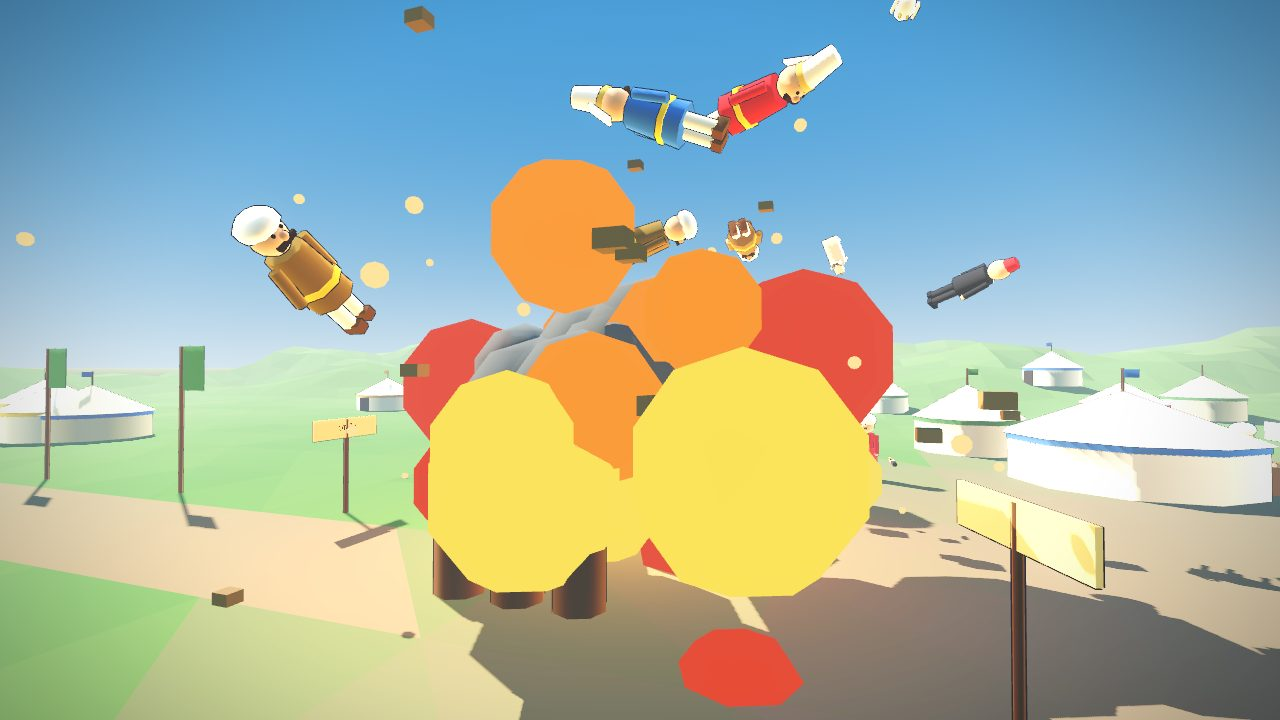
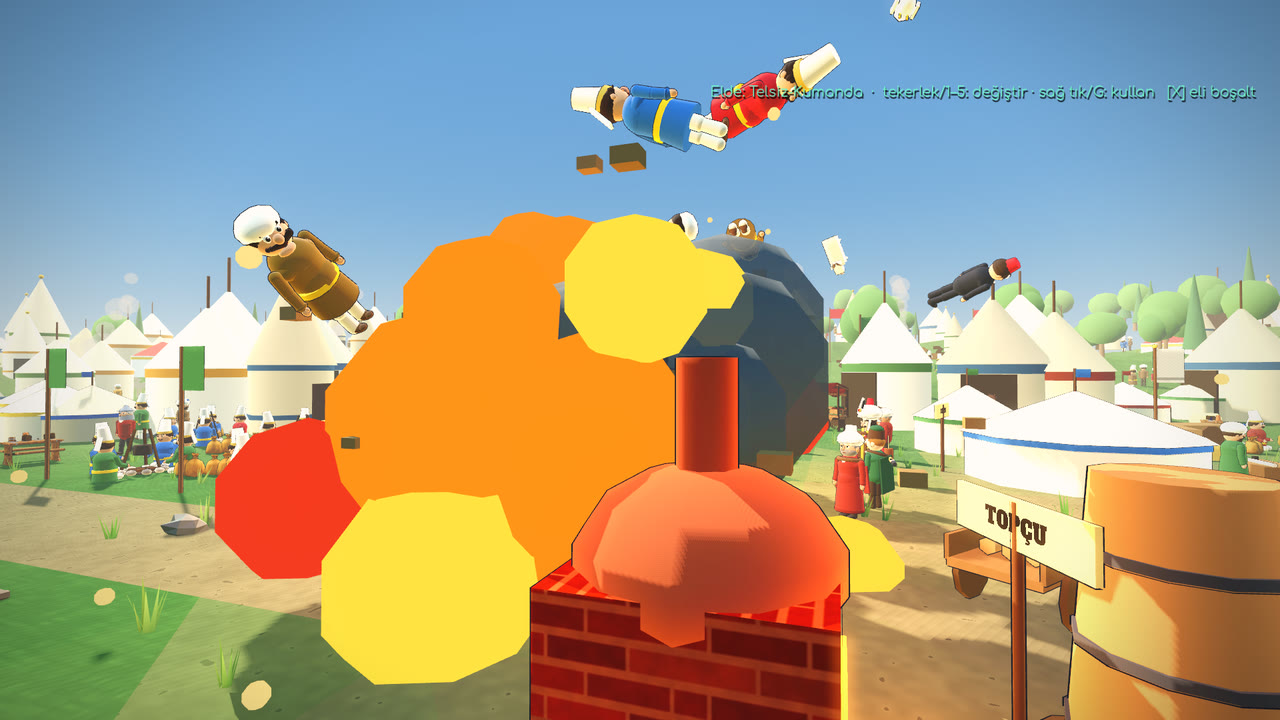
Site: kuşatma (Perde IV) bölümü, 27 bölüm, yeni kapak ve galeri görselleri (yeni saçlarla), bölüm şeridine 17–27
Claude-Session: https://claude.ai/code/session_01LHZpAsiBw1hjtaJxmhj2KM

diff --git a/index.html b/index.html
@@ -111,6 +111,9 @@ h2 small{display:block;font:600 16px Nunito,system-ui,sans-serif;color:var(--mut
 .boom img{width:100%;border-radius:16px;border:1px solid var(--line);box-shadow:0 18px 50px rgba(0,0,0,.45);display:block}
 .boom blockquote{margin:0 0 14px;padding-left:14px;border-left:3px solid var(--gold);font-size:18px}
 .boom blockquote b{color:var(--gold);font-family:Fredoka,Nunito,system-ui,sans-serif}
+.boom.siege{grid-template-columns:.8fr 1.2fr}
+.boom.siege img{order:2}
+.boom.siege p{margin:0 0 12px}
 .story{display:grid;grid-template-columns:1.05fr .95fr;gap:40px;align-items:center}
 .story img{width:100%;border-radius:16px;border:1px solid var(--line);box-shadow:0 18px 50px rgba(0,0,0,.4)}
 .story p{margin:0 0 14px}
@@ -133,7 +136,8 @@ footer em{color:var(--ink)}
 
 @media (max-width:760px){
   section{padding:54px 0}
-  .story,.boom{grid-template-columns:1fr}
+  .story,.boom,.boom.siege{grid-template-columns:1fr}
+  .boom.siege img{order:0}
   .hero{min-height:min(82vh,720px);background-position:30% 30%}
   .btn{font-size:19px;padding:14px 24px}
   .nav .go{display:none!important}
@@ -173,6 +177,7 @@ footer em{color:var(--ink)}
     </div>
     <div class="chips">
       <span data-tr>🎙 Türkçe ve İngilizce seslendirme</span><span data-en>🎙 Fully voiced in English &amp; Turkish</span>
+      <span data-tr>⚔ İki taraflı kuşatma</span><span data-en>⚔ The siege, from both sides</span>
       <span data-tr>🔀 23 final</span><span data-en>🔀 23 endings</span>
       <span data-tr>🎮 Gamepad desteği</span><span data-en>🎮 Gamepad support</span>
     </div>
@@ -182,11 +187,11 @@ footer em{color:var(--ink)}
 <main>
   <section>
     <div class="wrap">
-      <p class="lead" data-tr>Tolga <b>Fatih'e risk tablosu sunuyor</b>, Urban'ın topunu yanlışlıkla havaya uçuruyor, Bizans'ta yedi nüsha form dolduruyor ve pazartesi 09:00 toplantısına yetişmeye çalışıyor.</p>
-      <p class="lead" data-en>Tolga <b>pitches a risk matrix to Sultan Mehmed</b>, accidentally blows up Urban's giant cannon, fills out forms in seven copies in Byzantium, and still tries to make his Monday 9 a.m. meeting.</p>
+      <p class="lead" data-tr>Tolga <b>Fatih'e risk tablosu sunuyor</b>, Urban'ın topunu yanlışlıkla havaya uçuruyor, Bizans'ta yedi nüsha form dolduruyor ve pazartesi 09:00 toplantısına yetişmeye çalışıyor. Sonra Zaman Bürosu onu kuşatmaya <b>tanık</b> olarak geri yolluyor.</p>
+      <p class="lead" data-en>Tolga <b>pitches a risk matrix to Sultan Mehmed</b>, accidentally blows up Urban's giant cannon, fills out forms in seven copies in Byzantium, and still tries to make his Monday 9 a.m. meeting. Then the Time Bureau sends him back to the siege as an <b>official witness</b>.</p>
       <div class="feats">
         <div class="feat"><div class="big">23</div><h3 data-tr>farklı final</h3><h3 data-en>different endings</h3><p data-tr>Her seçim tarihi değiştirir. Aynı İstanbul'u iki kez fethedemezsin.</p><p data-en>Every choice bends history. You'll never conquer the same Constantinople twice.</p></div>
-        <div class="feat"><div class="big">16</div><h3 data-tr>bölüm</h3><h3 data-en>chapters</h3><p data-tr>Garajdan otağa, sur dibinden Zaman Bürosu'nun sonsuz koridorlarına.</p><p data-en>From a garage workshop to the Sultan's tent, the city walls and the endless corridors of the Time Bureau.</p></div>
+        <div class="feat"><div class="big">27</div><h3 data-tr>bölüm</h3><h3 data-en>chapters</h3><p data-tr>Garajdan otağa, Zaman Bürosu'nun koridorlarından kuşatmanın son gecesine.</p><p data-en>From a garage workshop to the Sultan's tent, the Time Bureau's corridors and the last night of the siege.</p></div>
         <div class="feat"><div class="big">🎙</div><h3 data-tr>tamamen seslendirilmiş</h3><h3 data-en>fully voiced</h3><p data-tr>Her replik Türkçe ve İngilizce seslendirildi. Hikmet Amca'nın telsizi dahil.</p><p data-en>Every line is voiced in both English and Turkish. Uncle Hikmet's crackly walkie-talkie included.</p></div>
         <div class="feat"><div class="big">🐔</div><h3 data-tr>tarihi doğruluk</h3><h3 data-en>historical accuracy</h3><p data-tr>Ayasofya, Galata, surlar ve kızak yolu gerçeğine sadık. Tavuklar değil.</p><p data-en>Hagia Sophia, Galata, the land walls and the famous overland ship slipway are faithful. The chickens are not.</p></div>
       </div>
@@ -212,21 +217,36 @@ footer em{color:var(--ink)}
     </div>
   </section>
 
+  <section class="alt">
+    <div class="wrap boom siege">
+      <img loading="lazy" src="img/shots/kusatma.jpg" alt="">
+      <div>
+        <div class="stamp"><span data-tr>PERDE IV · KUŞATMA</span><span data-en>ACT IV · THE SIEGE</span></div>
+        <h2 style="text-align:left"><span data-tr>28 Nisan – 1 Haziran 1453. İki taraftan.</span><span data-en>28 April – 1 June 1453. From both sides.</span></h2>
+        <p data-tr>Zaman Bürosu, Tolga'yı kuşatmanın geçici tanığı yapar: on bir bölüm, her olayın bir fotoğrafı. Bizans surlarında mı durursun, Osmanlı ordugâhında mı? Tarafını sen seçersin.</p>
+        <p data-en>The Time Bureau makes Tolga a temporary witness to the siege: eleven chapters, one photograph of every event. Do you stand on the Byzantine walls or in the Ottoman camp? You pick the side.</p>
+        <p data-tr>Haliç'te kundak gemileriyle kürek çek, gedikte kovayla su taşı, Urban'ın topuna gülle sür, lağımda karşı lağım kaz, son hücumda merdiven daya. Galata'da ahitnamenin okunuşunu izle.</p>
+        <p data-en>Row with the fire ships on the Golden Horn, haul water buckets to the breach, load Urban's great gun, dig counter-mines under the walls and plant ladders in the final assault. Then watch the charter of Galata being read out.</p>
+        <blockquote><b>Tolga:</b> <span data-tr>Kuşatmada iş kazası kapsamda mı? Top güllesi mesela?</span><span data-en>Is a workplace accident covered during a siege? A cannonball, say?</span><br><b>Nihat:</b> <span data-tr>Büro personeli ölmez, Tolga Bey. Sadece geç kalır. Madde 9.</span><span data-en>Bureau staff don't die, Mr Tolga. They're just late. Article 9.</span></blockquote>
+      </div>
+    </div>
+  </section>
+
   <section>
     <div class="wrap">
       <h2><span data-tr>Oyundan kareler</span><span data-en>Screenshots</span></h2>
       <div class="gal" id="gal">
-        <button type="button"><img loading="lazy" src="img/shots/sehir.jpg" alt=""><span class="cap"><span data-tr>Bizans sokakları: kançılaryaya izinsiz tavuk giremez</span><span data-en>The streets of Byzantium: no chickens without a permit</span></span></button>
+        <button type="button"><img loading="lazy" src="img/shots/gedik.jpg" alt=""><span class="cap"><span data-tr>Son hücum: gedikte Giustiniani, surda ok yağmuru</span><span data-en>The final assault: Giustiniani at the breach, arrows raining from the walls</span></span></button>
+        <button type="button"><img loading="lazy" src="img/shots/urban_top.jpg" alt=""><span class="cap"><span data-tr>Urban'ın büyük topuna gülle sür, nişan al</span><span data-en>Load Urban's great gun and take aim</span></span></button>
+        <button type="button"><img loading="lazy" src="img/shots/kundak.jpg" alt=""><span class="cap"><span data-tr>Haliç'te kundak gemileri: Tolga kürekte (ters oturuyor)</span><span data-en>Fire ships on the Golden Horn: Tolga at the oar (facing backwards)</span></span></button>
+        <button type="button"><img loading="lazy" src="img/shots/barikat.jpg" alt=""><span class="cap"><span data-tr>Gece gedik kapanır: fıçı, toprak, kalas</span><span data-en>At night the breach gets patched: barrels, earth, planks</span></span></button>
+        <button type="button"><img loading="lazy" src="img/shots/lagim.jpg" alt=""><span class="cap"><span data-tr>Surların altında karşı lağım</span><span data-en>Counter-mining under the walls</span></span></button>
+        <button type="button"><img loading="lazy" src="img/shots/ahitname.jpg" alt=""><span class="cap"><span data-tr>1 Haziran, Galata: ahitname okunuyor</span><span data-en>1 June, Galata: the charter is read out</span></span></button>
         <button type="button"><img loading="lazy" src="img/shots/fatih.jpg" alt=""><span class="cap"><span data-tr>Fatih'in otağında karar anı</span><span data-en>Decision time in the Sultan's tent</span></span></button>
         <button type="button"><img loading="lazy" src="img/shots/patlama.jpg" alt=""><span class="cap"><span data-tr>Urban'ın topu… olması gerekenden büyük patladı</span><span data-en>Urban's cannon… went off bigger than planned</span></span></button>
-        <button type="button"><img loading="lazy" src="img/shots/kosu.jpg" alt=""><span class="cap"><span data-tr>Yağlı kızaklarda gemilerle yarış</span><span data-en>Racing ships down the greased slipway</span></span></button>
-        <button type="button"><img loading="lazy" src="img/shots/mufide.jpg" alt=""><span class="cap"><span data-tr>Zaman Bürosu: her kapının arkasında bir yıl</span><span data-en>The Time Bureau: a year behind every door</span></span></button>
-        <button type="button"><img loading="lazy" src="img/shots/hologram.jpg" alt=""><span class="cap"><span data-tr>Denetçi Nihat paradoks izlerini sürüyor</span><span data-en>Auditor Nihat follows the paradox trail</span></span></button>
-        <button type="button"><img loading="lazy" src="img/shots/galata.jpg" alt=""><span class="cap"><span data-tr>Galata'da bilgi şarapçıdan alınır</span><span data-en>In Galata, information costs one glass of wine</span></span></button>
-        <button type="button"><img loading="lazy" src="img/shots/zincir.jpg" alt=""><span class="cap"><span data-tr>Gece, deniz surlarında denge</span><span data-en>Balancing on the sea walls at night</span></span></button>
-        <button type="button"><img loading="lazy" src="img/shots/yangin.jpg" alt=""><span class="cap"><span data-tr>Ziyafet mutfağında leblebi faciası</span><span data-en>A chickpea disaster in the palace kitchen</span></span></button>
-        <button type="button"><img loading="lazy" src="img/shots/pencere.jpg" alt=""><span class="cap"><span data-tr>Dönüş penceresi açık: kolu çek!</span><span data-en>The return window is open: pull the lever!</span></span></button>
-        <button type="button"><img loading="lazy" src="img/shots/ajan.jpg" alt=""><span class="cap"><span data-tr>Nöbetçi hırdavatçıda gece operasyonu</span><span data-en>A midnight heist at the all-night hardware store</span></span></button>
+        <button type="button"><img loading="lazy" src="img/shots/sehir.jpg" alt=""><span class="cap"><span data-tr>Bizans sarayında tercüme: kendinden emin, Rumca</span><span data-en>Translating at the Byzantine court: confidently, in Greek</span></span></button>
+        <button type="button"><img loading="lazy" src="img/shots/ordugah.jpg" alt=""><span class="cap"><span data-tr>Ordugâh pazarı: keçi Tolga'dan hızlı</span><span data-en>The camp market: the goat is faster than Tolga</span></span></button>
+        <button type="button"><img loading="lazy" src="img/shots/alamet.jpg" alt=""><span class="cap"><span data-tr>Kuşatmanın alametleri: sağanak, sel ve karanlık</span><span data-en>Omens of the siege: downpour, flood and darkness</span></span></button>
         <button type="button"><img loading="lazy" src="img/shots/gidak.jpg" alt=""><span class="cap"><span data-tr>Gıdak.</span><span data-en>Cluck.</span></span></button>
       </div>
       <p class="hint" style="margin-top:14px"><span data-tr>Görüntüler Türkçe arayüzle alındı; oyunun tamamı İngilizce de oynanabilir.</span><span data-en>Screenshots show the Turkish interface; the whole game is also fully playable in English.</span></p>
@@ -318,9 +338,9 @@ const LATEST = `https://github.com/${REPO}/releases/latest`;
 
 const TEXT = {
   tr: {title: "Gerçek Tarih Bu Değil — Not a History Game", logo: "img/logo.png", logoAlt: "Gerçek Tarih Bu Değil",
-       desc: "1453, İstanbul. Pijamalı mucit Hikmet Amca'nın zaman makinesi çalışıyor. Tek sorun: gönderdiği kişi bir sigortacı. 23 farklı final, ücretsiz indir."},
+       desc: "1453, İstanbul. Pijamalı mucit Hikmet Amca'nın zaman makinesi çalışıyor. Tek sorun: gönderdiği kişi bir sigortacı. 27 bölüm, iki taraflı kuşatma, 23 farklı final, ücretsiz indir."},
   en: {title: "Not a History Game — Istanbul, 1453 · Free download", logo: "img/logo_en.png", logoAlt: "Not a History Game",
-       desc: "Istanbul, 1453. A duct-taped time machine sends an insurance salesman to the conquest of Constantinople. 23 endings, fully voiced in English. Free for Windows, macOS and Linux."},
+       desc: "Istanbul, 1453. A duct-taped time machine sends an insurance salesman to the conquest of Constantinople. 27 chapters, the siege from both sides, 23 endings, fully voiced in English. Free for Windows, macOS and Linux."},
 };
 
 // Bölümler (oyundaki kapak çizimleri)
@@ -333,6 +353,12 @@ const CHAPTERS = [
   ["ch11", "Yüzleşme", "The Confrontation"], ["ch12", "Huzur", "The Audience"],
   ["ch13", "Dönüş Penceresi", "The Return Window"], ["ch14", "Son Form", "The Final Form"],
   ["ch15", "Pazartesi", "Monday"], ["ch16", "Gıdak", "Cluck"],
+  ["ch17", "Kundak", "Fire Ships"], ["ch18", "Fıçı Köprü", "The Barrel Bridge"],
+  ["ch19", "Brigantin", "The Brigantine"], ["ch20", "Gedik", "The Breach"],
+  ["ch21", "Lağım", "The Mines"], ["ch22", "Kule", "The Tower"],
+  ["ch23", "Elçi", "The Envoy"], ["ch24", "Alametler", "Omens"],
+  ["ch25", "Son Akşam", "The Last Evening"], ["ch26", "Şafak", "Dawn"],
+  ["ch27", "Ahitname", "The Charter"],
 ];
 document.getElementById("strip").innerHTML = CHAPTERS.map((c, i) =>
   `<figure class="ch"><img loading="lazy" src="img/ch/${c[0]}.jpg" alt=""><figcaption>` +
